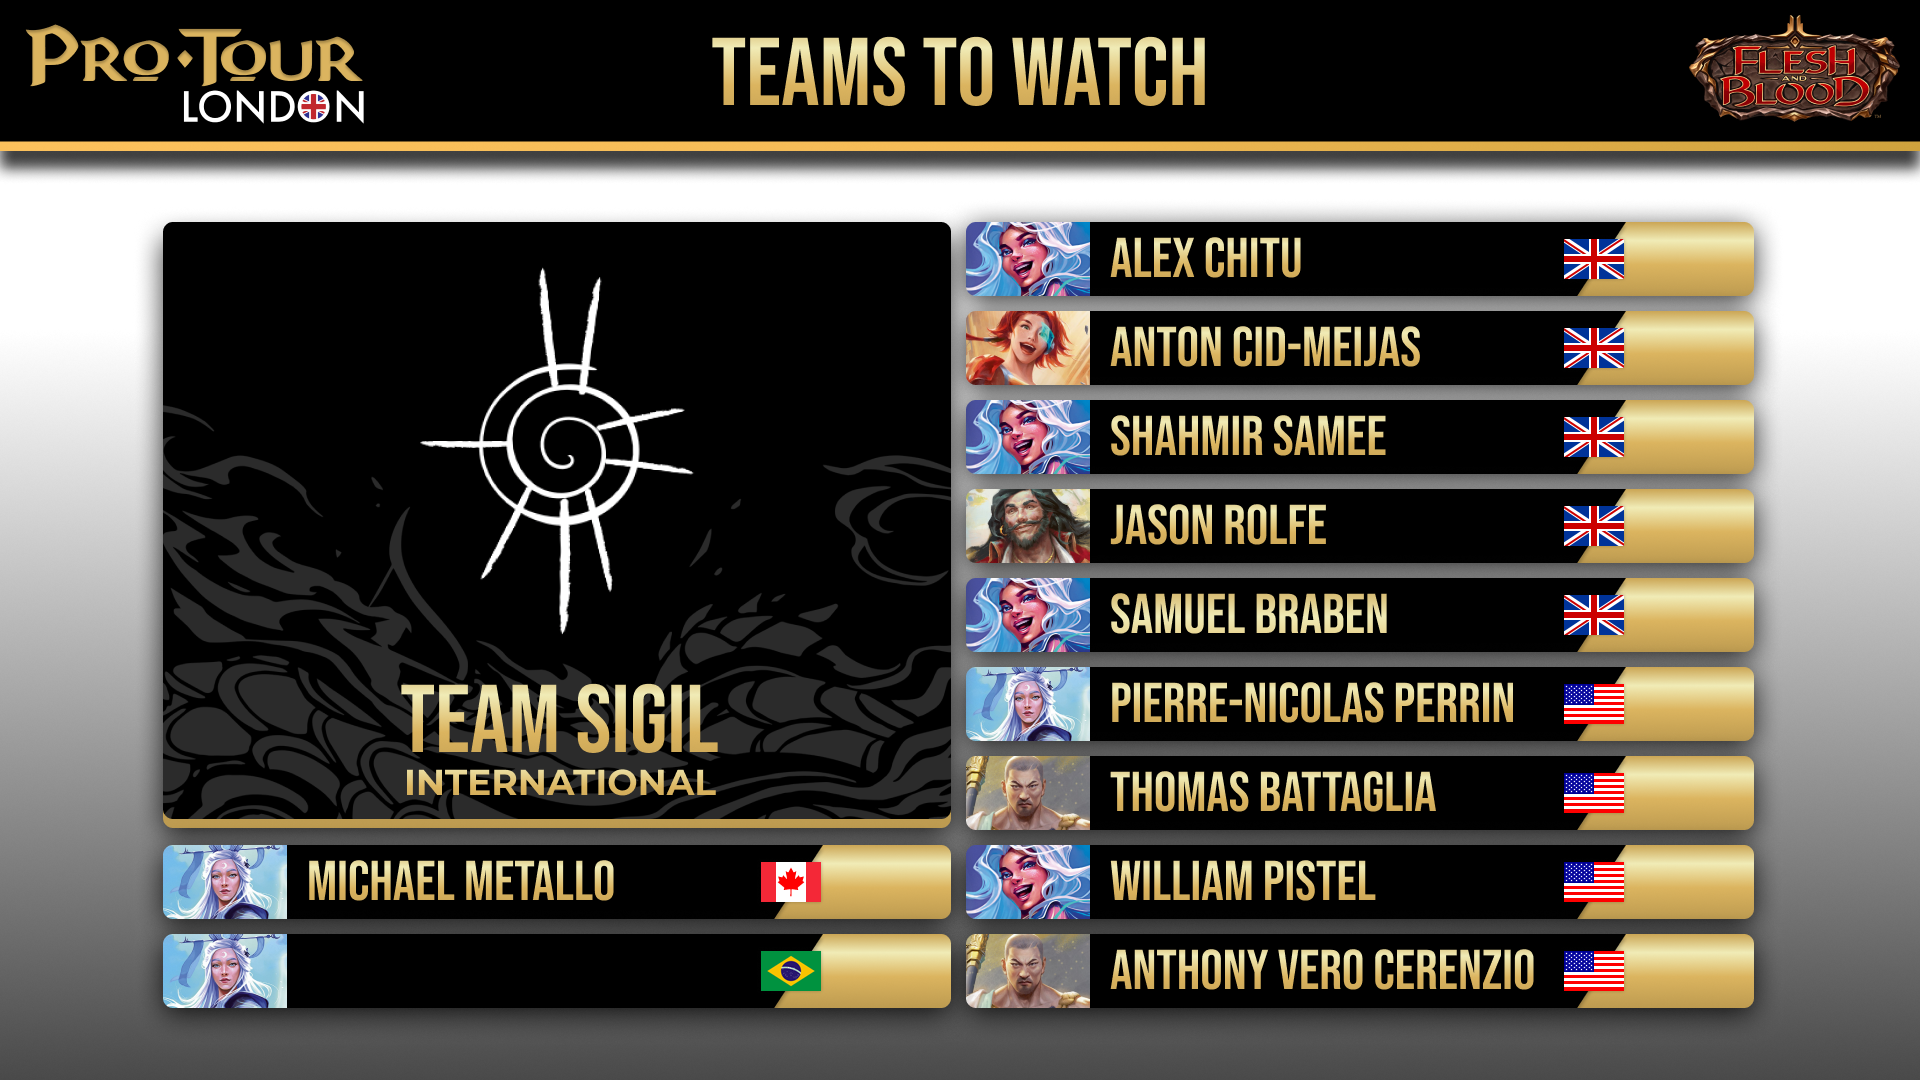
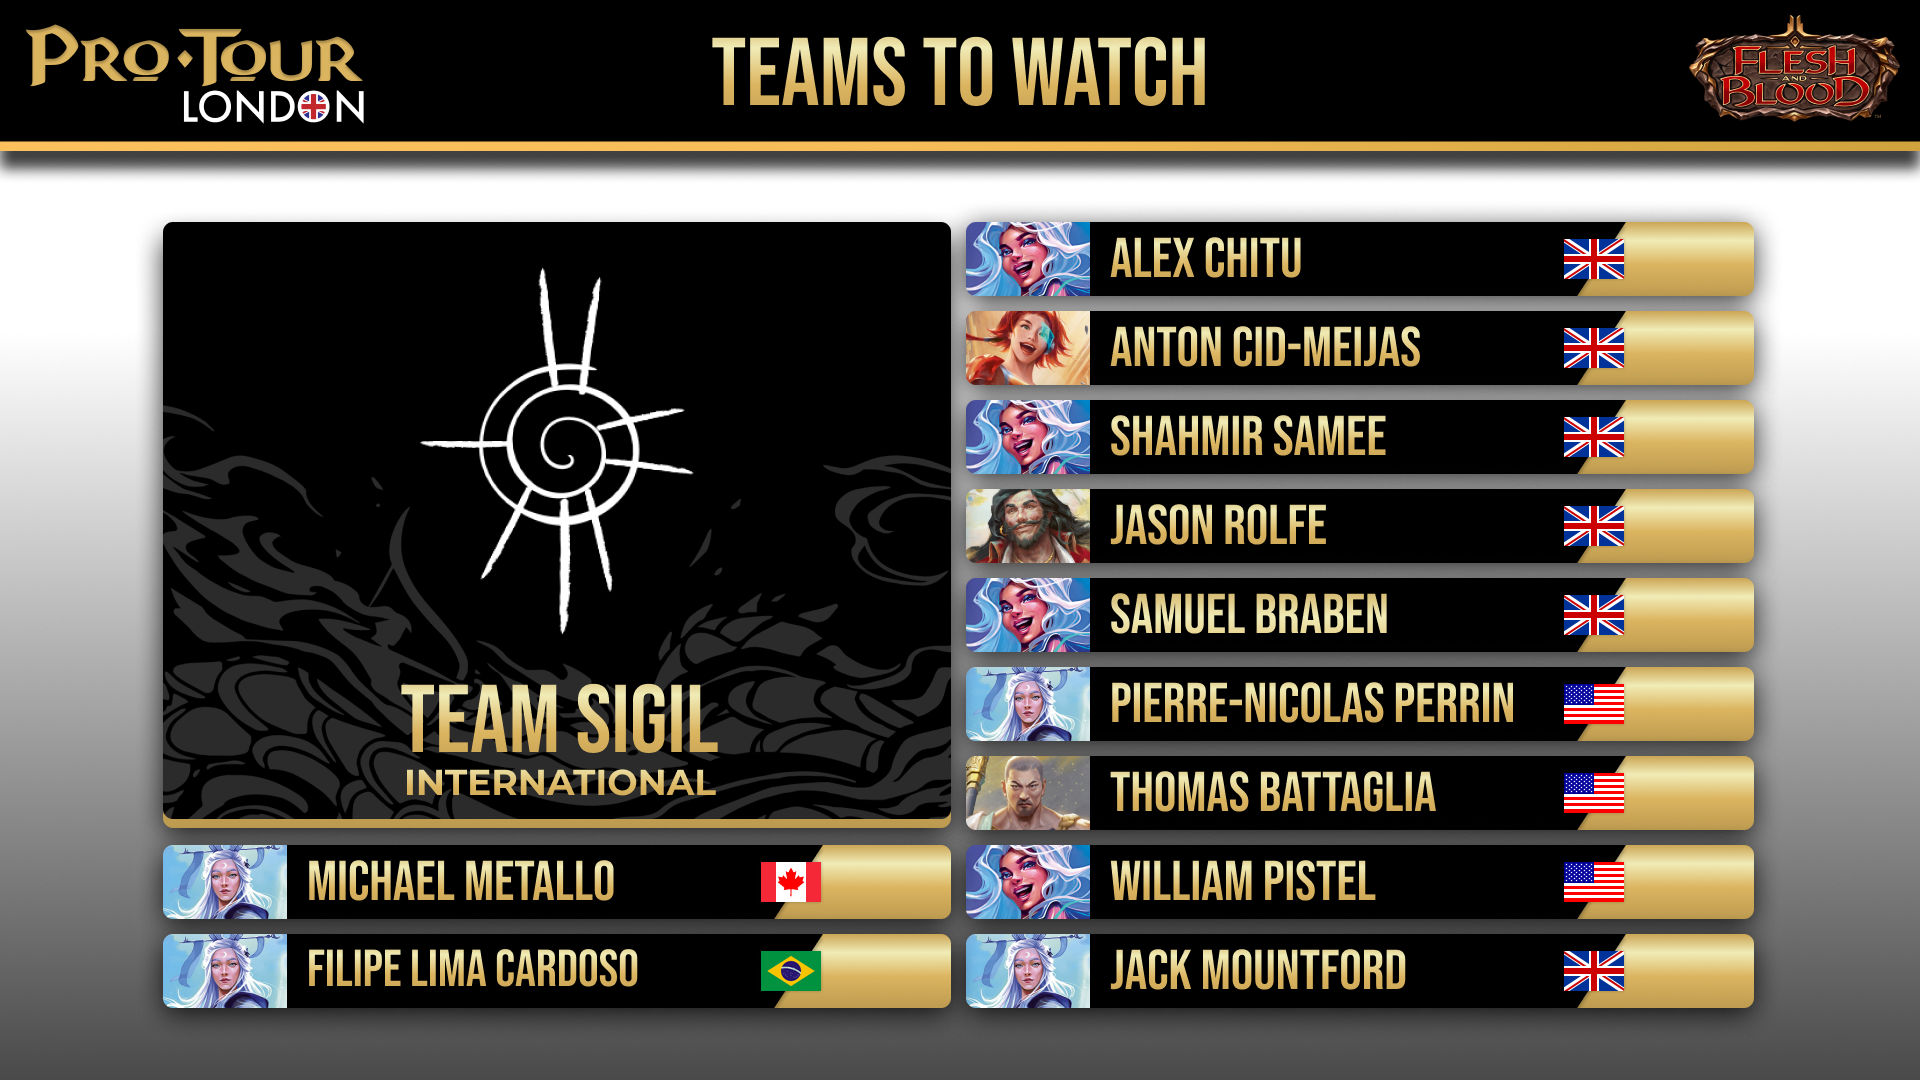
sigil

Changed region(s): [[0.5, 0.8556, 0.8438, 0.9472], [0.1562, 0.8556, 0.3438, 0.9167]]

diff --git a/templates/sigil.html b/templates/sigil.html
@@ -115,7 +115,7 @@
             "PIERRE-NICOLAS PERRIN": ["Pierre-Nicolas Perrin"],
             "THOMAS BATTAGLIA": ["Thomas Battaglia"],
             "WILLIAM PISTEL": ["William Pistel"],
-            "ANTHONY VERO": ["Anthony Vero Cerenzio"],
+            "JACK MOUNTFORD": ["Jack Mountford"],
             "MICHAEL METALLO": ["Michael Metallo"],
             "FILIPE LIMA CARDOSO": ["Filipe Lima Cardoso"]
         };
